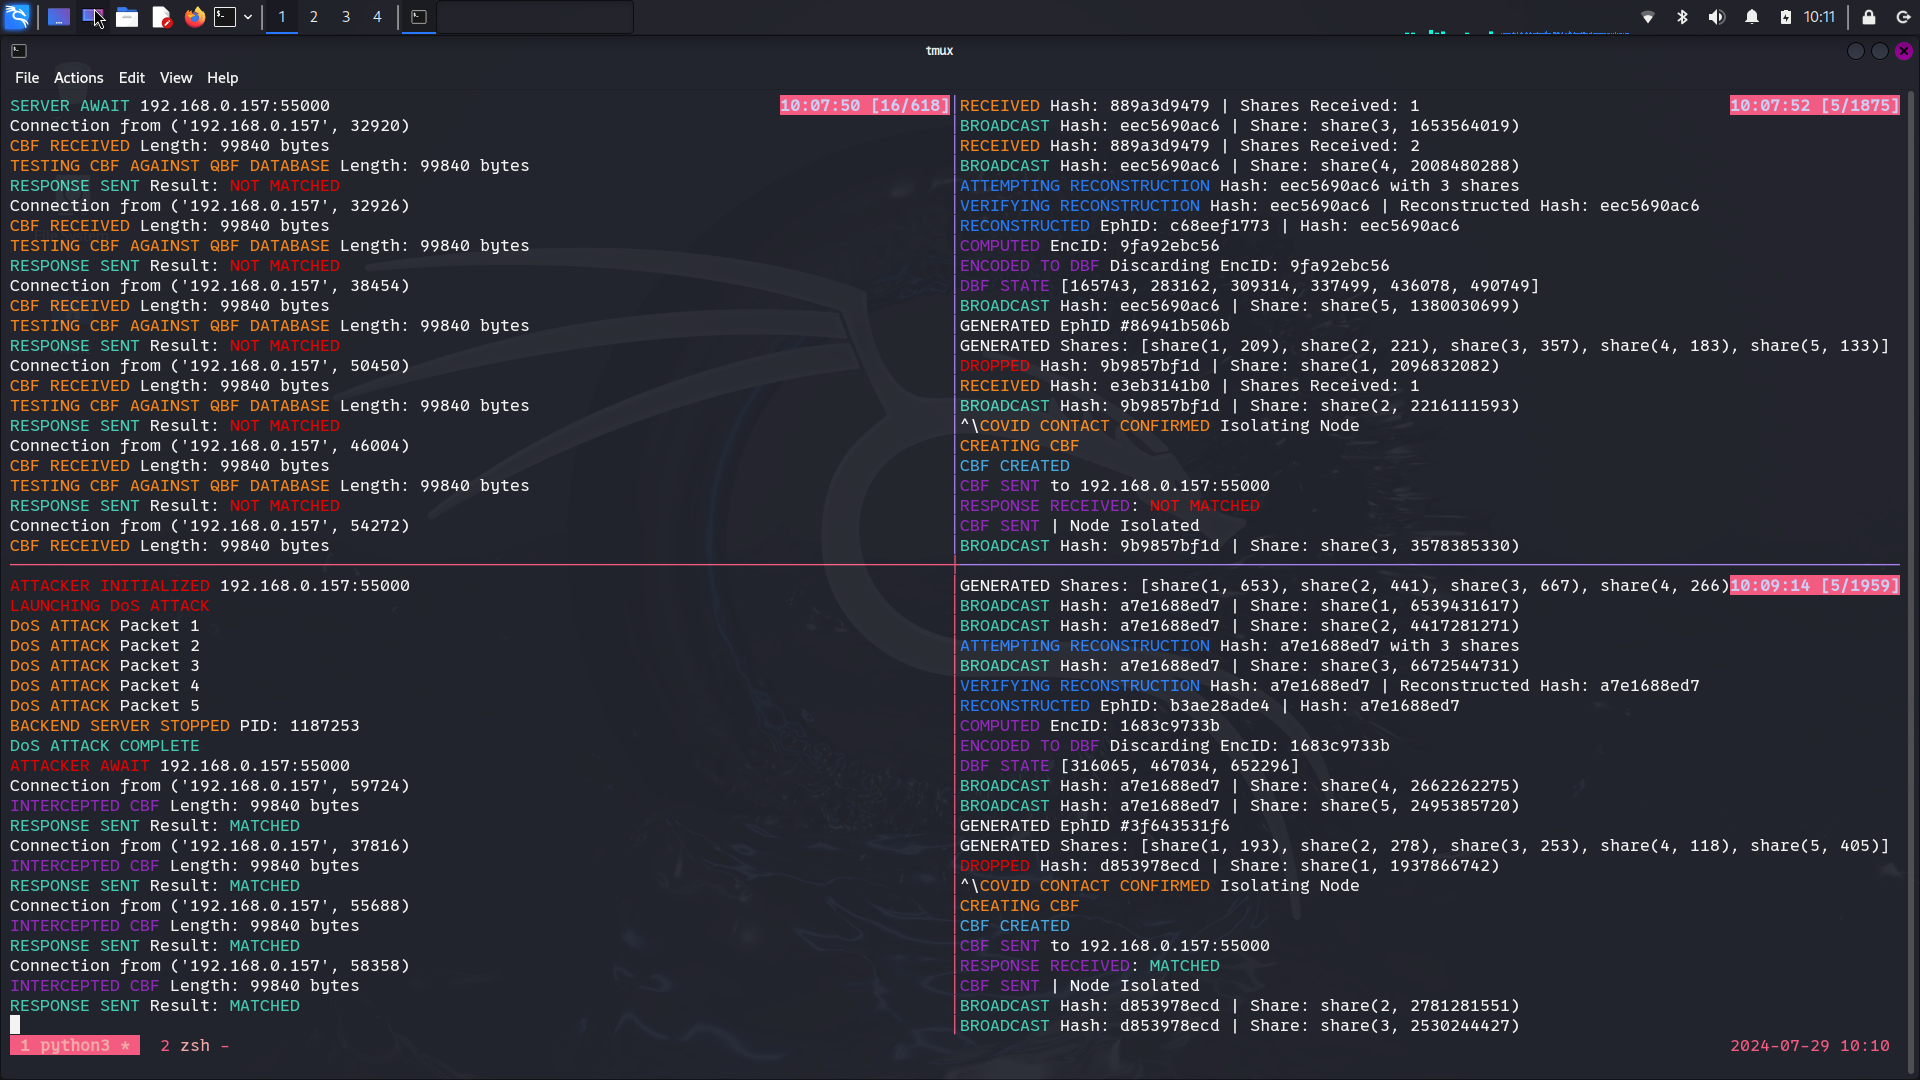
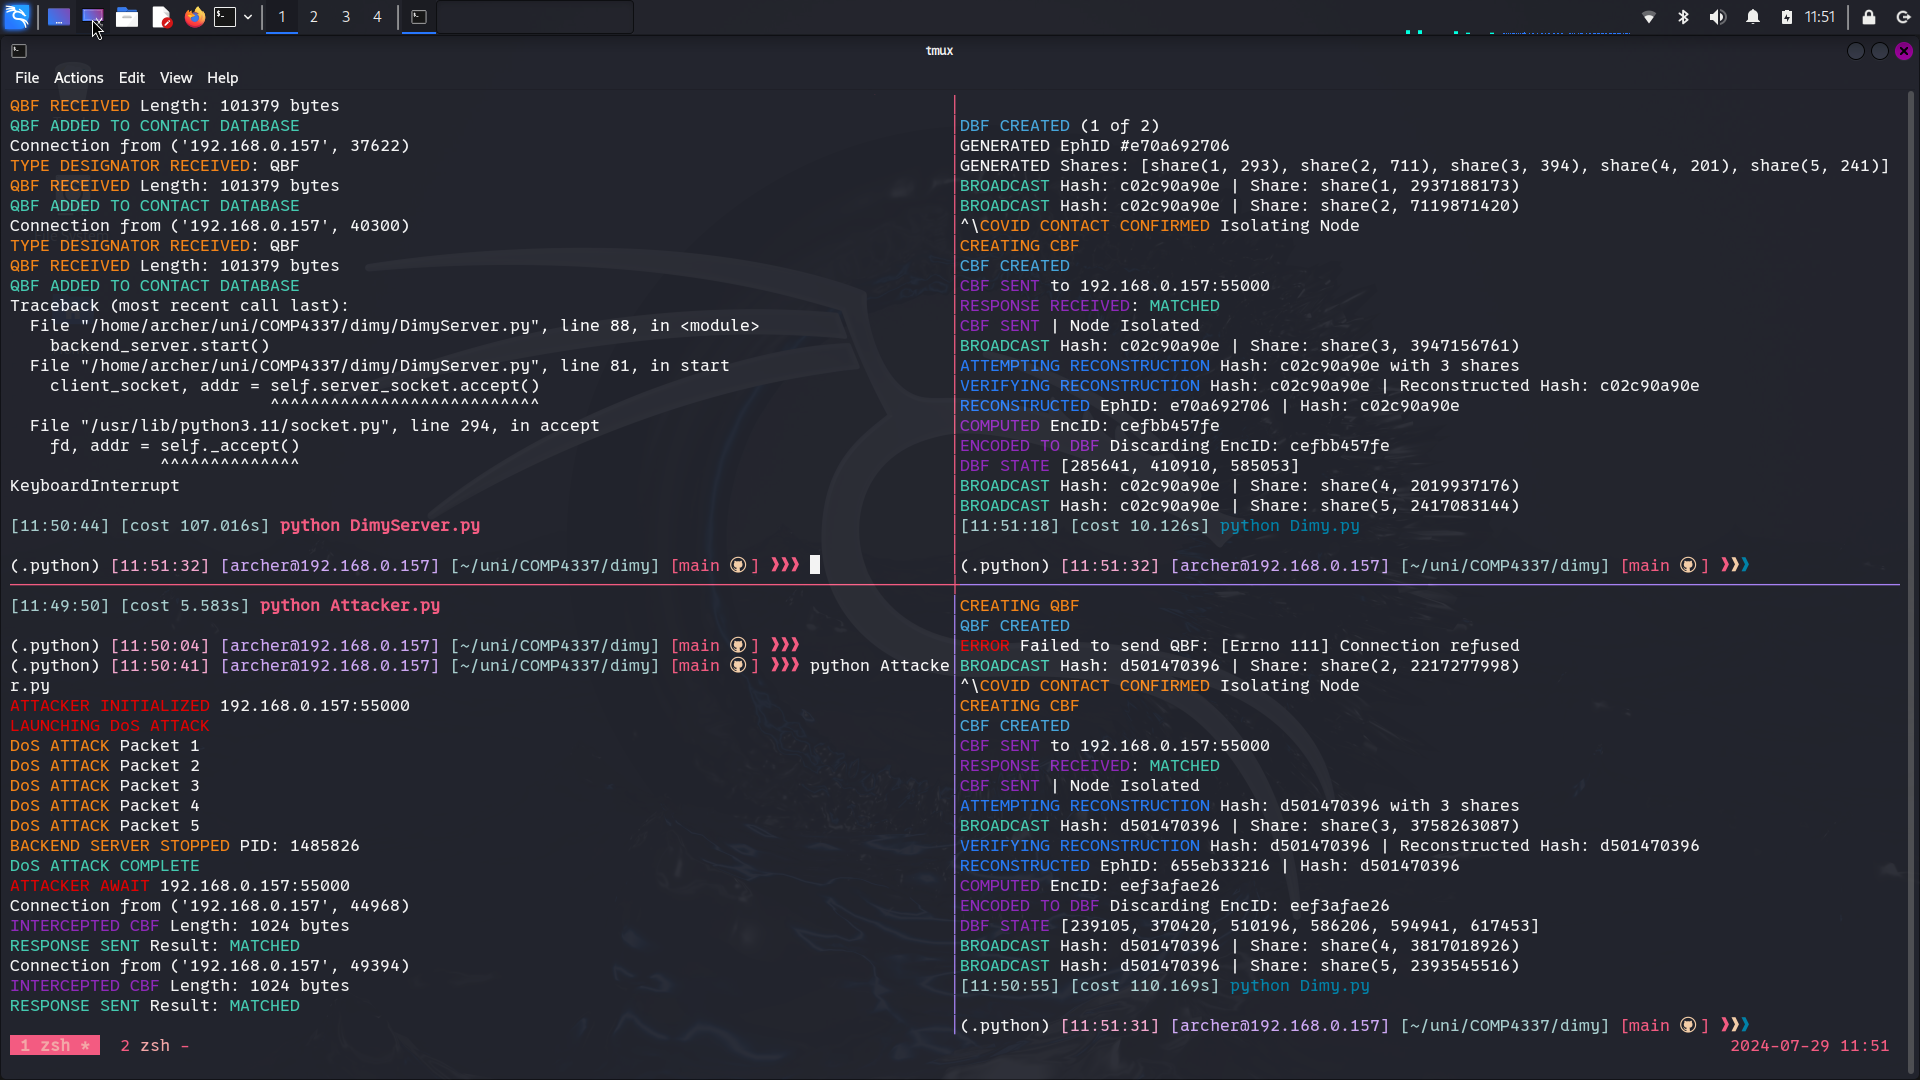
update protocol

diff --git a/DimyServer.py b/DimyServer.py
@@ -1,5 +1,4 @@
 import bitarray
-import json
 import socket
 import threading
 from ThreadSafeSocket import ThreadSafeSocket
@@ -14,10 +13,16 @@ class BackendServer:
         self.server_socket.listen(5)
         self.received_qbf = set()
         print(f"\033[92mSERVER AWAIT\033[0m {self.host}:{self.port}")
-                     
-    def pad_bloom_filter(self, bloom_filter_bytes, target_size=102400):
-        if len(bloom_filter_bytes) < target_size:
-            padding_length = target_size - len(bloom_filter_bytes)
+
+    def get_max_qbf_size(self):
+        if not self.received_qbf:
+            return 0
+        return max(len(qbf) for qbf in self.received_qbf)
+
+    def pad_bloom_filter(self, bloom_filter_bytes):
+        max_qbf_size = self.get_max_qbf_size()
+        if len(bloom_filter_bytes) < max_qbf_size:
+            padding_length = max_qbf_size - len(bloom_filter_bytes)
             bloom_filter_bytes += b'\x00' * padding_length
         return bloom_filter_bytes
 
@@ -25,6 +30,9 @@ class BackendServer:
         cbf_bits = bitarray.bitarray()
         cbf_bits.frombytes(cbf)
         cbf_count = cbf_bits.count()
+        
+        if cbf_count == 0:
+            return False
 
         for qbf in self.received_qbf:
             qbf_bits = bitarray.bitarray()
@@ -45,9 +53,9 @@ class BackendServer:
             print(f"\033[91mRECEIPT FAILED\033[0m Status: {status}")
             client_socket.close()
             return
-        type_designator = type_data.decode()
+        type_designator = type_data.decode()[:3]
         print(f"\033[93mTYPE DESIGNATOR RECEIVED\033[0m: {type_designator}")
-        status, bf_data = ts_socket.recv()
+        status, bf_data = ts_socket.recv_all()
         if status != ThreadSafeSocket.SocketStatus.OK:
             print(f"\033[91mRECEIPT FAILED\033[0m Status: {status}")
             client_socket.close()
@@ -67,7 +75,7 @@ class BackendServer:
         else:
             print(f"\033[91mUNKNOWN TYPE DESIGNATOR\033[0m: {type_designator}")
         client_socket.close()
-    
+
     def start(self):
         while True:
             client_socket, addr = self.server_socket.accept()

diff --git a/ThreadSafeSocket.py b/ThreadSafeSocket.py
@@ -16,24 +16,41 @@ class ThreadSafeSocket:
         self.sendlock = RLock()
         self.timeout = timeout
 
-    def send(self, bloom_filter):
+    def send(self, data):
         with self.sendlock:
             _, write_ready, _ = select.select([], [self.socket], [], self.timeout)
             if not write_ready:
                 return self.SocketStatus.TIMEOUT
-            self.socket.sendall(bloom_filter)
+            self.socket.sendall(data)
             return self.SocketStatus.OK
 
-    def recv(self, bloom_size=100 * 1024 * 8):
+    def recv(self, buffer_size=1024):
         result = b''
         with self.recvlock:
             read_ready, _, _ = select.select([self.socket], [], [], self.timeout)
             if not read_ready:
                 return (self.SocketStatus.TIMEOUT, b'')
-            result = self.socket.recv(bloom_size)
+            result = self.socket.recv(buffer_size)
         if not result:
             return (self.SocketStatus.DISCONNECTED, b'')
         return (self.SocketStatus.OK, result)
     
+    def recv_all(self):
+        result = b''
+        with self.recvlock:
+            while True:
+                read_ready, _, _ = select.select([self.socket], [], [], self.timeout)
+                if not read_ready:
+                    print(f"\033[91mTIMEOUT\033[0m while waiting for data")
+                    return (self.SocketStatus.TIMEOUT, result)
+                chunk = self.socket.recv(102400)
+                if not chunk:
+                    print(f"\033[91mDISCONNECTED\033[0m while receiving data")
+                    return (self.SocketStatus.DISCONNECTED, result)
+                result += chunk
+                if len(chunk) > 1024:
+                    break
+        return (self.SocketStatus.OK, result)
+
     def close(self):
-            self.socket.close()
+        self.socket.close()

diff --git a/Dimy.py b/Dimy.py
@@ -156,7 +156,7 @@ class Node:
             with socket.create_connection((self.backend_ip, self.backend_port), timeout=10) as sock:
                 ts_socket = ThreadSafeSocket(sock, timeout=10)
                 type_designator = "QBF"
-                status = ts_socket.send(type_designator.encode())
+                status = ts_socket.send(type_designator.encode().strip())
                 if status != ThreadSafeSocket.SocketStatus.OK:
                     print(f"\033[91mQBF TYPE DESIGNATOR SEND FAILED\033[0m Status: {status}")
                     return
@@ -181,7 +181,7 @@ class Node:
             with socket.create_connection((self.backend_ip, self.backend_port), timeout=10) as sock:
                 ts_socket = ThreadSafeSocket(sock, timeout=10)
                 type_designator = "CBF"
-                status = ts_socket.send(type_designator.encode())
+                status = ts_socket.send(type_designator.encode().strip())
                 if status != ThreadSafeSocket.SocketStatus.OK:
                     print(f"\033[91mCBF TYPE DESIGNATOR SEND FAILED\033[0m Status: {status}")
                     return

diff --git a/Attacker.py b/Attacker.py
@@ -27,7 +27,7 @@ class Attacker:
                 time.sleep(0.5)
             self.stop_backend_server()
             print(f"\033[92mDoS ATTACK COMPLETE\033[0m")
-            time.sleep(2)
+            time.sleep(3)
 
     def start_attacker_server(self):
         self.server_socket.bind((self.attacker_host, self.attacker_port))
@@ -63,7 +63,7 @@ def get_backend_pid():
         result = subprocess.run(['ps', 'aux'], stdout=subprocess.PIPE)
         output = result.stdout.decode()
         for line in output.splitlines():
-            if 'DimyServer.py' in line and 'grep' not in line:
+            if 'python3 DimyServer.py' in line and 'grep' not in line:
                 return int(line.split()[1])
     except Exception as e:
         print(f"\033[91mERROR\033[0m Failed to get backend PID: {str(e)}")
